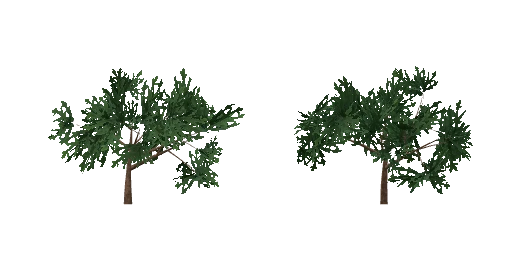
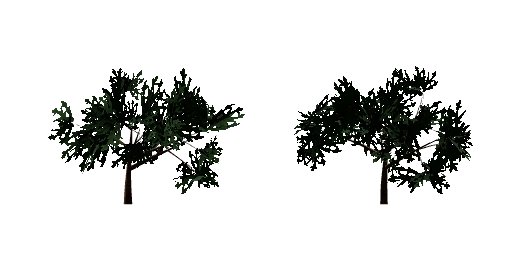
Baked trees lol

Changed region(s): [[0.0938, 0.25, 0.5, 0.8125], [0.5625, 0.25, 0.9375, 0.8125]]

diff --git a/src/vegetation.ts b/src/vegetation.ts
@@ -21,15 +21,35 @@ export type VegetationDetail = 'low' | 'medium' | 'high';
 export type VegetationMode = 'performance' | 'quality' | 'ultra';
 type Kind = 'trees' | 'bush' | 'rocks';
 type Part = { geometry: THREE.BufferGeometry; material: THREE.Material; name: string };
+type VegetationTime = 'noon' | 'sunset' | 'night';
+const lightingAtlases = import.meta.glob<string>('./vegetation-assets/*-atlas-*.webp', {
+  eager: true,
+  query: '?url',
+  import: 'default',
+});
+
+export function setVegetationTime(parent: THREE.Object3D, time: VegetationTime) {
+  parent.traverse((object) => {
+    if (!(object instanceof THREE.Mesh)) return;
+    const materials = Array.isArray(object.material) ? object.material : [object.material];
+    for (const material of materials) {
+      if (!(material instanceof THREE.MeshBasicMaterial)) continue;
+      const maps = material.userData.vegetationAtlases as
+        | Record<VegetationTime, THREE.Texture>
+        | undefined;
+      if (maps) material.map = maps[time];
+    }
+  });
+}
 export interface VegetationPlacements {
   matrices: THREE.Matrix4[];
   shades: number[];
 }
 
 export const vegetationDetails = {
-  low: { near: 0, trees: 500, bush: 85, rocks: 65, density: 0.35 },
-  medium: { near: 65, trees: 650, bush: 105, rocks: 105, density: 0.65 },
-  high: { near: 95, trees: 800, bush: 125, rocks: 160, density: 1 },
+  low: { near: 0, trees: 500, ultraTrees: 180, bush: 85, rocks: 65, density: 0.35 },
+  medium: { near: 65, trees: 650, ultraTrees: 300, bush: 105, rocks: 105, density: 0.65 },
+  high: { near: 95, trees: 800, ultraTrees: 450, bush: 125, rocks: 160, density: 1 },
 } as const;
 
 const transitionWidth = 20;
@@ -67,6 +87,8 @@ class PlantLOD extends THREE.LOD {
 
 function transitionMaterial(source: THREE.Material, distant: boolean) {
   const material = source.clone();
+  if (source.userData.vegetationAtlases)
+    material.userData.vegetationAtlases = source.userData.vegetationAtlases;
   const range = { value: 0 };
   material.userData.vegetationRange = range;
   material.onBeforeCompile = (shader) => {
@@ -123,7 +145,11 @@ function applyDetail(lod: THREE.LOD, detail: VegetationDetail) {
         ? Math.min(settings.near, performance ? 65 : 95)
         : Math.min(settings.near, performance ? 30 : 55);
     lod.levels[2].distance =
-      kind === 'trees' ? Math.min(settings.trees, performance ? 300 : 600) : settings.bush;
+      kind === 'trees'
+        ? ultra
+          ? settings.ultraTrees
+          : Math.min(settings.trees, performance ? 300 : 600)
+        : settings.bush;
     if (ultra) lod.levels[1].distance = lod.levels[2].distance;
   } else lod.levels[1].distance = settings.rocks;
   lod.traverse((object) => {
@@ -173,14 +199,27 @@ function cutout(species: PlantSpecies, parts: Part[], url: string): Part {
   });
   const geometry = mergeGeometries(cards);
   cards.forEach((card) => card.dispose());
+  function lightingTexture(time: 'sunset' | 'night') {
+    const url = lightingAtlases[`./vegetation-assets/${species}-atlas-${time}.webp`];
+    if (!url) throw new Error(`Missing ${time} vegetation atlas for ${species}`);
+    return vegetationTexture(url);
+  }
+  const maps = {
+    noon: vegetationTexture(url),
+    sunset: lightingTexture('sunset'),
+    night: lightingTexture('night'),
+  };
+  const material = new THREE.MeshBasicMaterial({
+    map: maps.noon,
+    alphaTest: 0.35,
+    side: THREE.DoubleSide,
+    forceSinglePass: true,
+    toneMapped: false,
+  });
+  material.userData.vegetationAtlases = maps;
   return {
     geometry,
-    material: new THREE.MeshBasicMaterial({
-      map: vegetationTexture(url),
-      alphaTest: 0.35,
-      side: THREE.DoubleSide,
-      forceSinglePass: true,
-    }),
+    material,
     name: species.startsWith('bush') ? 'shrubs' : 'tree-crowns',
   };
 }
@@ -220,6 +259,13 @@ export function addVegetation(plants: THREE.Group, placements: Record<Kind, Vege
         ...part,
         material: transitionMaterial(part.material, true),
       }));
+      // Resource meshes keep every time-of-day texture visible to course disposal.
+      for (const part of distant) {
+        const maps = part.material.userData.vegetationAtlases;
+        for (const map of Object.values<THREE.Texture>(maps)) {
+          resources.add(new THREE.Mesh(part.geometry, new THREE.MeshBasicMaterial({ map })));
+        }
+      }
     }
     // Keep ownership even when a course has no placements for a particular model.
     for (const part of [...parts, ...(distant ?? [])]) {
@@ -246,10 +292,8 @@ export function addVegetation(plants: THREE.Group, placements: Record<Kind, Vege
         entries.matrices[indices[0]].elements[13],
         (z + 0.5) * chunkSize,
       );
-      if (kind !== 'trees') {
-        // Prefix counts then remain spatially uniform at every detail setting.
-        indices.sort((a, b) => entries.shades[a] - entries.shades[b]);
-      }
+      // Prefix counts then remain spatially uniform at every detail setting.
+      indices.sort((a, b) => entries.shades[a] - entries.shades[b]);
       for (const [level, meshes] of [parts, ...(distant ? [distant] : [])].entries()) {
         const group = new THREE.Group();
         for (const part of meshes) {
@@ -260,7 +304,7 @@ export function addVegetation(plants: THREE.Group, placements: Record<Kind, Vege
             mesh.setMatrixAt(i, entries.matrices[index]);
             mesh.setColorAt(i, tint.setScalar(0.78 + entries.shades[index] * 0.22));
           });
-          if (kind !== 'trees') mesh.userData.groundCoverCount = indices.length;
+          mesh.userData.groundCoverCount = indices.length;
           mesh.castShadow = level === 0;
           mesh.receiveShadow = level === 0;
           mesh.computeBoundingSphere();

diff --git a/src/lighting.ts b/src/lighting.ts
@@ -3,6 +3,7 @@ import { CSM } from 'three/addons/csm/CSM.js';
 import { Sky } from 'three/addons/objects/Sky.js';
 import type { ConfigurationState } from './configuration-state';
 import { createCloudLayer } from './clouds';
+import { setVegetationTime } from './vegetation';
 
 export const daylight = {
   noon: {
@@ -110,6 +111,7 @@ export function createLighting(
   const materials = new WeakSet<THREE.Material>();
 
   function setupMaterials() {
+    setVegetationTime(scene, currentTime);
     scene.traverse((object) => {
       if (!(object instanceof THREE.Mesh)) return;
       for (const material of Array.isArray(object.material) ? object.material : [object.material]) {
@@ -295,7 +297,10 @@ export function createLighting(
     night: createSky('night'),
   };
   pmrem.dispose();
+  let currentTime: ConfigurationState['timeOfDay'] = 'noon';
   const applyTimeOfDay = (time: ConfigurationState['timeOfDay']) => {
+    currentTime = time;
+    setVegetationTime(scene, time);
     const preset = daylight[time];
     scene.background = skies[time].sky;
     scene.environment = skies[time].environment;

diff --git a/src/tree-style-preview.ts b/src/tree-style-preview.ts
@@ -16,7 +16,8 @@ export function installTreeStylePreview(scene: THREE.Scene, reportError: (error:
     <label for="tree-style">Vegetation rendering</label>
     <p id="tree-style-description">Baked pine, oak, aspen and three bush styles.
       Performance uses shorter mesh ranges and fewer bushes; Quality draws more detail.
-      Ultra uses 3D meshes throughout, with no baked distant plants.</p>
+      Ultra uses 3D meshes throughout, with no baked distant plants.
+      Vegetation detail controls density; Ultra tree ranges are 180 / 300 / 450 meters.</p>
     <select id="tree-style" aria-describedby="tree-style-description">
       <option value="performance">Performance</option>
       <option value="quality">Quality</option>
